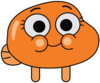
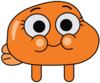
docs(design): Darwin front belly, legs and tail fin, frames on the real scene (NAK-353)

Changed region(s): [[0.15, 0.6988, 0.81, 1.0], [0.0, 0.506, 0.12, 0.7952]]

diff --git a/docs/design/darwin/build.py b/docs/design/darwin/build.py
@@ -11,10 +11,10 @@ import sys
 INK, BODY, LIGHT, LIMB, WHITE = "#0a0a0a", "#f47e26", "#f6bc8c", "#f49c52", "#e4e3e8"
 STROKE = 7  # outline weight measured on the reference, in this space
 
-# Silhouette, clockwise from the snout; the bottom is closed with a round
-# belly because the reference hides it.
-BODY_PTS = [(722, 260), (723, 317), (704, 371), (666, 414), (618, 443), (568, 462), (510, 478),
-            (440, 490), (370, 494), (300, 492), (230, 482), (165, 460), (105, 420), (62, 370),
+# Silhouette, clockwise from the snout; the belly is nearly flat, as on the
+# reference.
+BODY_PTS = [(722, 260), (723, 317), (704, 371), (666, 414), (618, 443), (568, 460), (510, 468),
+            (440, 472), (370, 473), (300, 472), (230, 467), (165, 452), (105, 420), (62, 370),
             (48, 315), (51, 260), (57, 200), (83, 145), (125, 101), (172, 69), (221, 47),
             (268, 31), (312, 18), (356, 9), (400, 3), (445, 4), (490, 12), (532, 31), (566, 62),
             (591, 100), (608, 140), (647, 170), (694, 208)]
@@ -44,11 +44,11 @@ def cheek(cx, cy, r, a1, a2, sweep):
 
 def front():
     s = 'stroke="%s" stroke-width="%d" stroke-linecap="round" stroke-linejoin="round"' % (INK, STROKE)
-    leg = '<path d="M%d 470v95a30 30 0 0 0 60 0v-95z" fill="%s" %s/>'
+    leg = '<path d="M%d 455v104a35 35 0 0 0 70 0v-104z" fill="%s" %s/>'
     return "\n".join([
-        leg % (228, LIMB, s), leg % (452, LIMB, s),
-        '<path d="M120 318C60 290 4 330 6 392c2 60 40 84 96 80 40-3 66-20 80-40z" fill="%s" %s/>' % (LIMB, s),
-        '<path d="M14 372l52 6M22 424l50-10" fill="none" %s/>' % s,
+        leg % (230, BODY, s), leg % (470, BODY, s),
+        '<path d="M120 318C70 296 14 316 10 360c-2 14 8 24 22 27c-16 5-26 16-24 32c4 44 44 58 94 53c40-4 66-20 80-40z" fill="%s" %s/>' % (LIMB, s),
+        '<path d="M32 387l46 3M24 430l48-10" fill="none" %s/>' % s,
         '<path d="%s" fill="%s" %s/>' % (smooth(BODY_PTS), BODY, s),
         '<path d="M112 146c-30 36-36 96-24 140 6 4 14 2 16-6 4-50 18-90 36-122 0-10-18-18-28-12z" fill="%s"/>' % LIGHT,
         '<ellipse cx="269.5" cy="184.5" rx="96" ry="90" fill="%s" %s/>' % (WHITE, s),

diff --git a/docs/design/darwin/README.md b/docs/design/darwin/README.md
@@ -9,7 +9,7 @@ approved, and not used by the widget.
 | `darwin-swim.svg` | swimming, turned | 680 x 480 |
 | `*@1x.png` | real widget size (25 px wide, `unit` 0.034 in `Goldfish.qml`) | |
 | `*@4x.png` | 100 px wide | |
-| `scene-dark.png`, `scene-light.png` | both views on a plain dark and light backdrop | stand-in, not the real scene |
+| `scene-dark.png`, `scene-light.png` | both views at real size in the real desktop bowl (`scripts/preview/render.sh desk`, `desk-light`), composited, with a 6x zoom below | |
 
 Rebuild: `python3 build.py .` then render the SVG files with ImageMagick.
 
@@ -23,15 +23,20 @@ Rebuild: `python3 build.py .` then render the SVG files with ImageMagick.
 | Limbs | `#f49c52` | |
 | Eye white | `#e4e3e8` | |
 
-Contrast of the body colour: 6.94:1 on `#0e1418`, 2.46:1 on `#f3f6f9`; the
-outline carries the shape on light backdrops (18.25:1) and disappears on
-dark ones (1.07:1).
+Contrast, measured on the real scene (the deep stays dark in both themes:
+`#0f0f19` dark, `#0a0914` light): body 7.13:1 and 7.40:1, eye white 14.92:1
+and 15.49:1, outline 1.04:1 and 1.00:1. The outline is invisible in the deep;
+the body colour and the eyes carry the shape. On a plain light surface
+(`#f3f6f9`) the body is 2.46:1 and the outline 18.25:1.
 
 ## Known differences from the references
 
-- Front: legs are thinner and closer together, with a darker outline; tail
-  fin shape and stripes are approximate; lower cheek arcs sit a few px high.
-- Swimming: the top-right notch is shallower than the reference; the
-  arm joins the body with a visible corner; the tail fin is simplified; the
-  mouth is a single curve; brows are neutral on purpose (the reference frowns).
-- No three-quarter view yet. Shoes are not drawn: no reference shows them.
+- Front (against the poster frame, overlay registered by eye): our drawing is
+  about 2 to 3 % wider, so the right edge and the top-right bump sit a few px
+  outside; the tail fin lobes are approximate; pupils are pure ink where the
+  printed frame shows dark grey. Colours come from the swimming frame, the
+  poster being a desaturated print.
+- Swimming: the tail fin is simplified; brows are neutral on purpose (the
+  reference frowns).
+- No three-quarter or true side view: no reference shows one. Shoes are not
+  drawn: no reference shows them.
